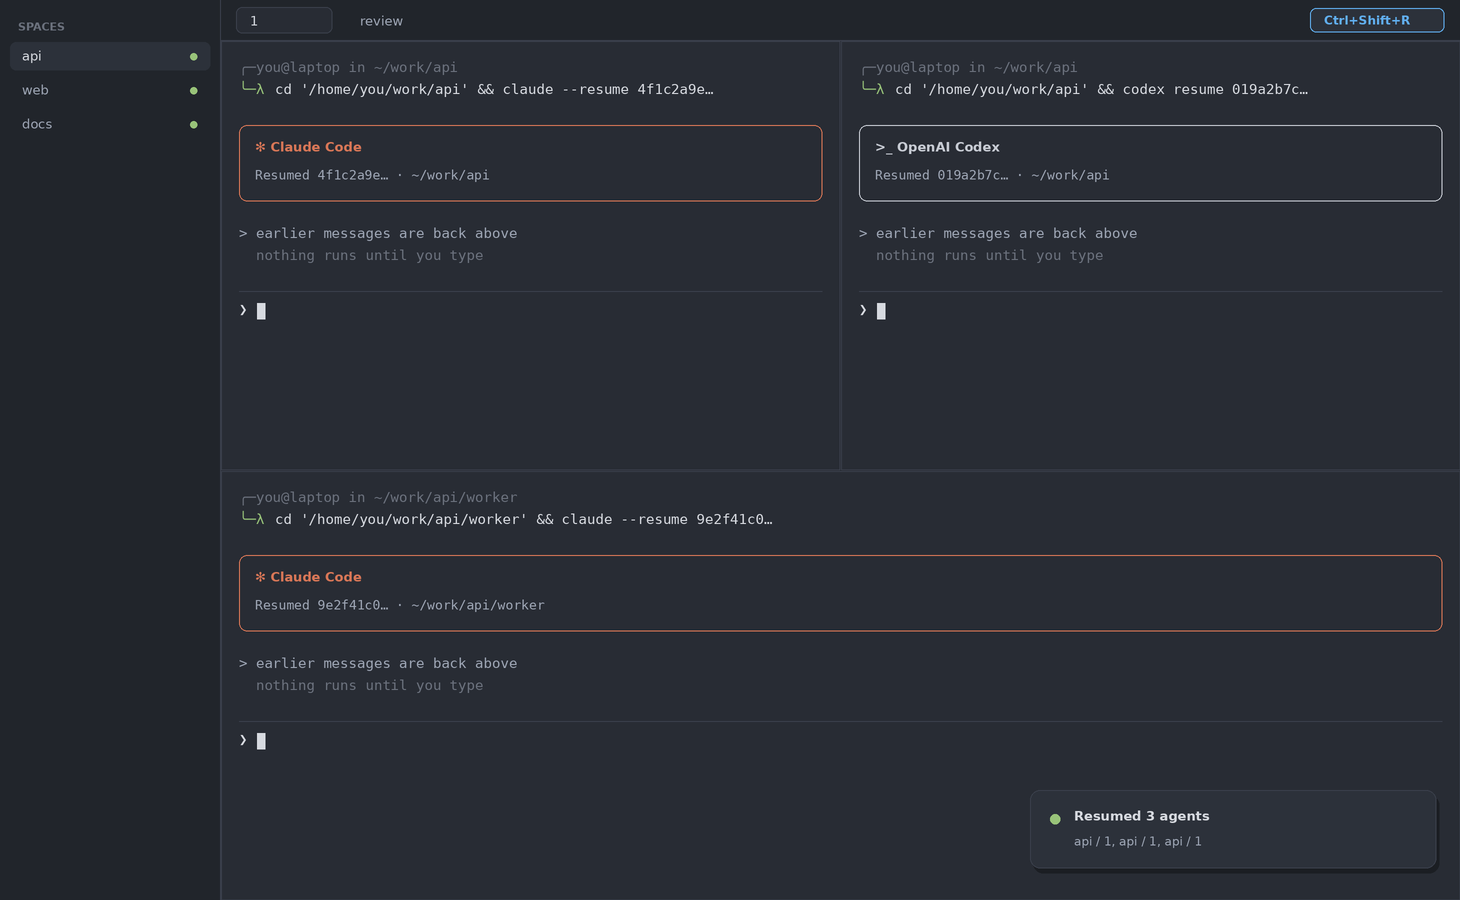
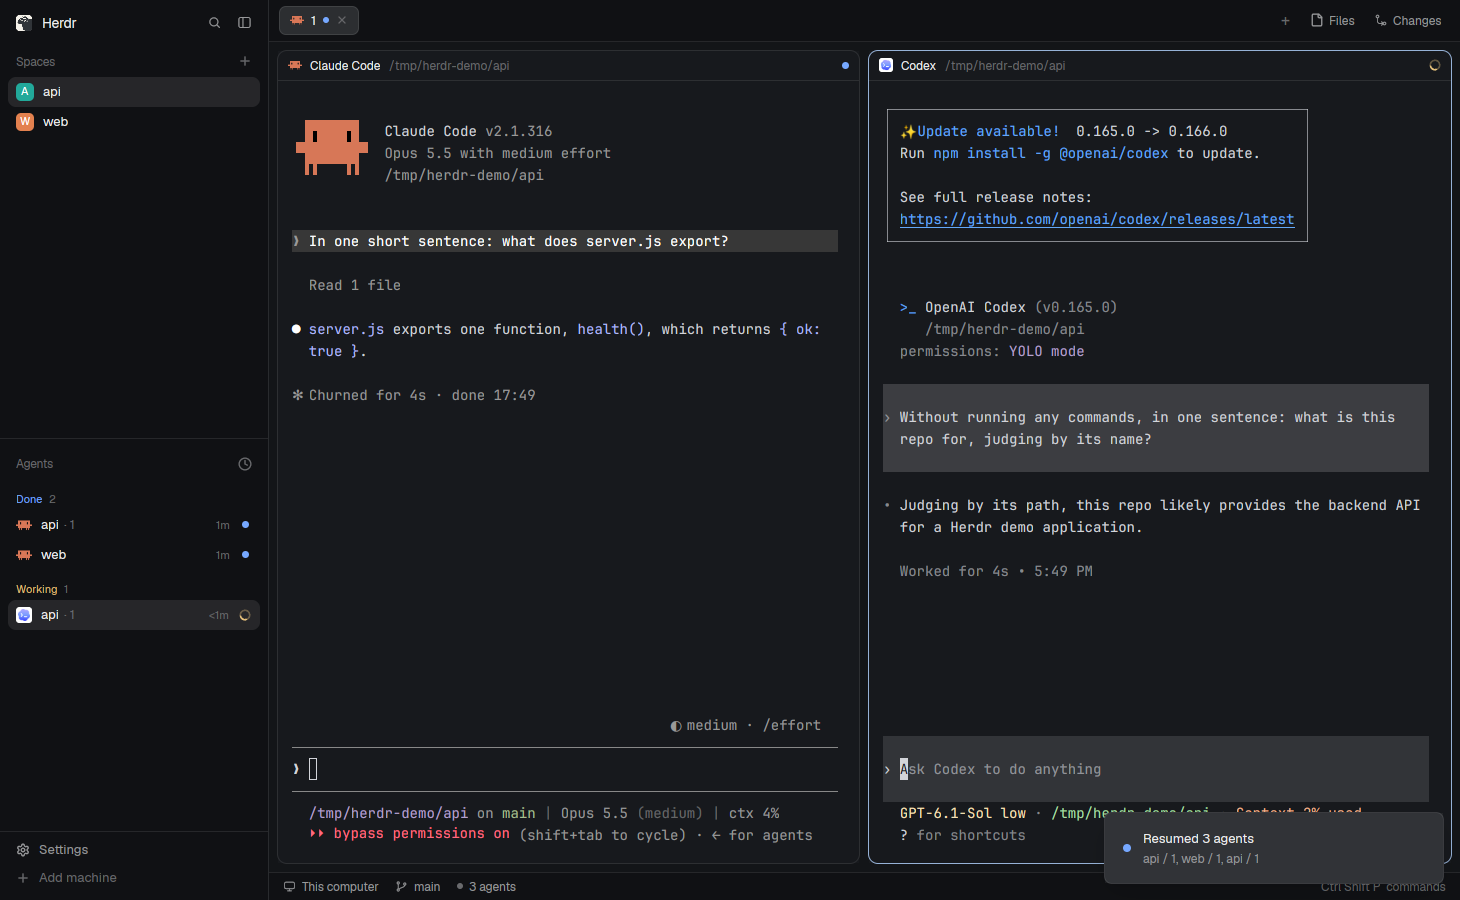
Use real screenshots for the preview
Taken with herdr-app shot from an isolated demo window (own app home,
core session and virtual display): the resume commands being typed, and
Claude Code and Codex back with the toast. The shell prompt's user name
and the Claude plan are masked.

diff --git a/README.md b/README.md
@@ -13,7 +13,13 @@ This mod brings that back. Press **Ctrl+Shift+R** after a restart, and each term
 
 The agents open idle on their old conversation; nothing runs until you type. A toast says what came back.
 
-![Agent resume](preview.png)
+![Claude Code and Codex back on their conversations after a core restart, with the "Resumed 3 agents" toast](preview.png)
+
+Right after the key press, while the commands are typed into the restored shells:
+
+![The popup "Looking for agents to resume…" and the resume commands typed into two shells](docs/resuming.png)
+
+(Real screenshots of a demo Herdr window, taken with `herdr-app shot`. The shell prompt's user name and the Claude plan were masked.)
 
 ## Install
 
@@ -78,7 +84,7 @@ node --test tests/*.test.mjs                           # the toast text
 herdr-app check mods/agent-resume
 ```
 
-`scripts/preview.py` draws `preview.png`. `agent_resume.py` keeps the decisions in pure functions (`plan`, `lost`, `at_shell`, `command`, `placement`) so they can be tested without herdr-core. `main.js` is the popup: it runs one pass with `exec` and posts the toast built by `summary.js`.
+`agent_resume.py` keeps the decisions in pure functions (`plan`, `lost`, `at_shell`, `command`, `placement`) so they can be tested without herdr-core. `main.js` is the popup: it runs one pass with `exec` and posts the toast built by `summary.js`.
 
 Checked in a running Herdr app: with two Claude Code sessions and a Codex session open, `hc server stop` then `hc server start`, then Ctrl+Shift+R: all three came back on their conversations and the hooks noted them again.
 

diff --git a/RECIPE.md b/RECIPE.md
@@ -4,7 +4,7 @@ Restarting the machine kills every agent. Herdr brings each terminal back as a b
 
 ![Agent resume](preview.png)
 
-(The preview is an illustration with made-up spaces and sessions. The mod itself shows only a short popup and a toast.)
+(A real screenshot of a demo Herdr window after a core restart and Ctrl+Shift+R: Claude Code and Codex back on their conversations, the toast at the bottom right. The Claude plan was masked. The mod itself shows only the short popup and the toast.)
 
 ## What you see
 
